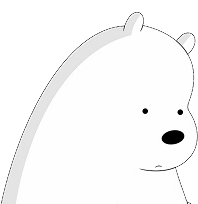
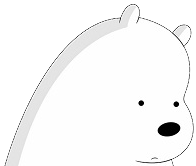
first commit

diff --git a/style.css b/style.css
@@ -190,7 +190,7 @@ p {
 
 .deskripsi .seeking {
     position: absolute;
-    top: -3px;
+    top: -166px;
     left: 50px;
 }
 
@@ -369,7 +369,8 @@ p {
     }
     .deskripsi .seeking {
         left: 0;
-        top: -15px;
+        top: -147px;
+        width: 30vh;
     }
     .education .unindra h1 {
         font-size: 45px;
@@ -423,7 +424,7 @@ p {
     }
     .deskripsi .seeking {
         left: 0;
-        top: 30px;
+        top: -127px;
         width: 150px;
     }
     .education .gunungan {
@@ -462,7 +463,7 @@ p {
     }
     .deskripsi .seeking {
         left: 0;
-        top: -5px;
+        top: -127px;
         width: 150px;
     }
     .education {

diff --git a/index.html b/index.html
@@ -49,8 +49,8 @@
 
 
         <div class="deskripsi">
-            <img class="seeking" src='./img/ice-seeking.png' alt="" />
             <div class="grid-deskripsi">
+                <img class="seeking" src='./img/ice-seeking.png' alt="" />
                 <h1>My Skills</h1>
                 <p>Lorem ipsum dolor, sit amet consectetur adipisicing elit. Impedit eligendi rerum omnis exercitationem unde. Dolores.</p>
                 <div class="skill">
